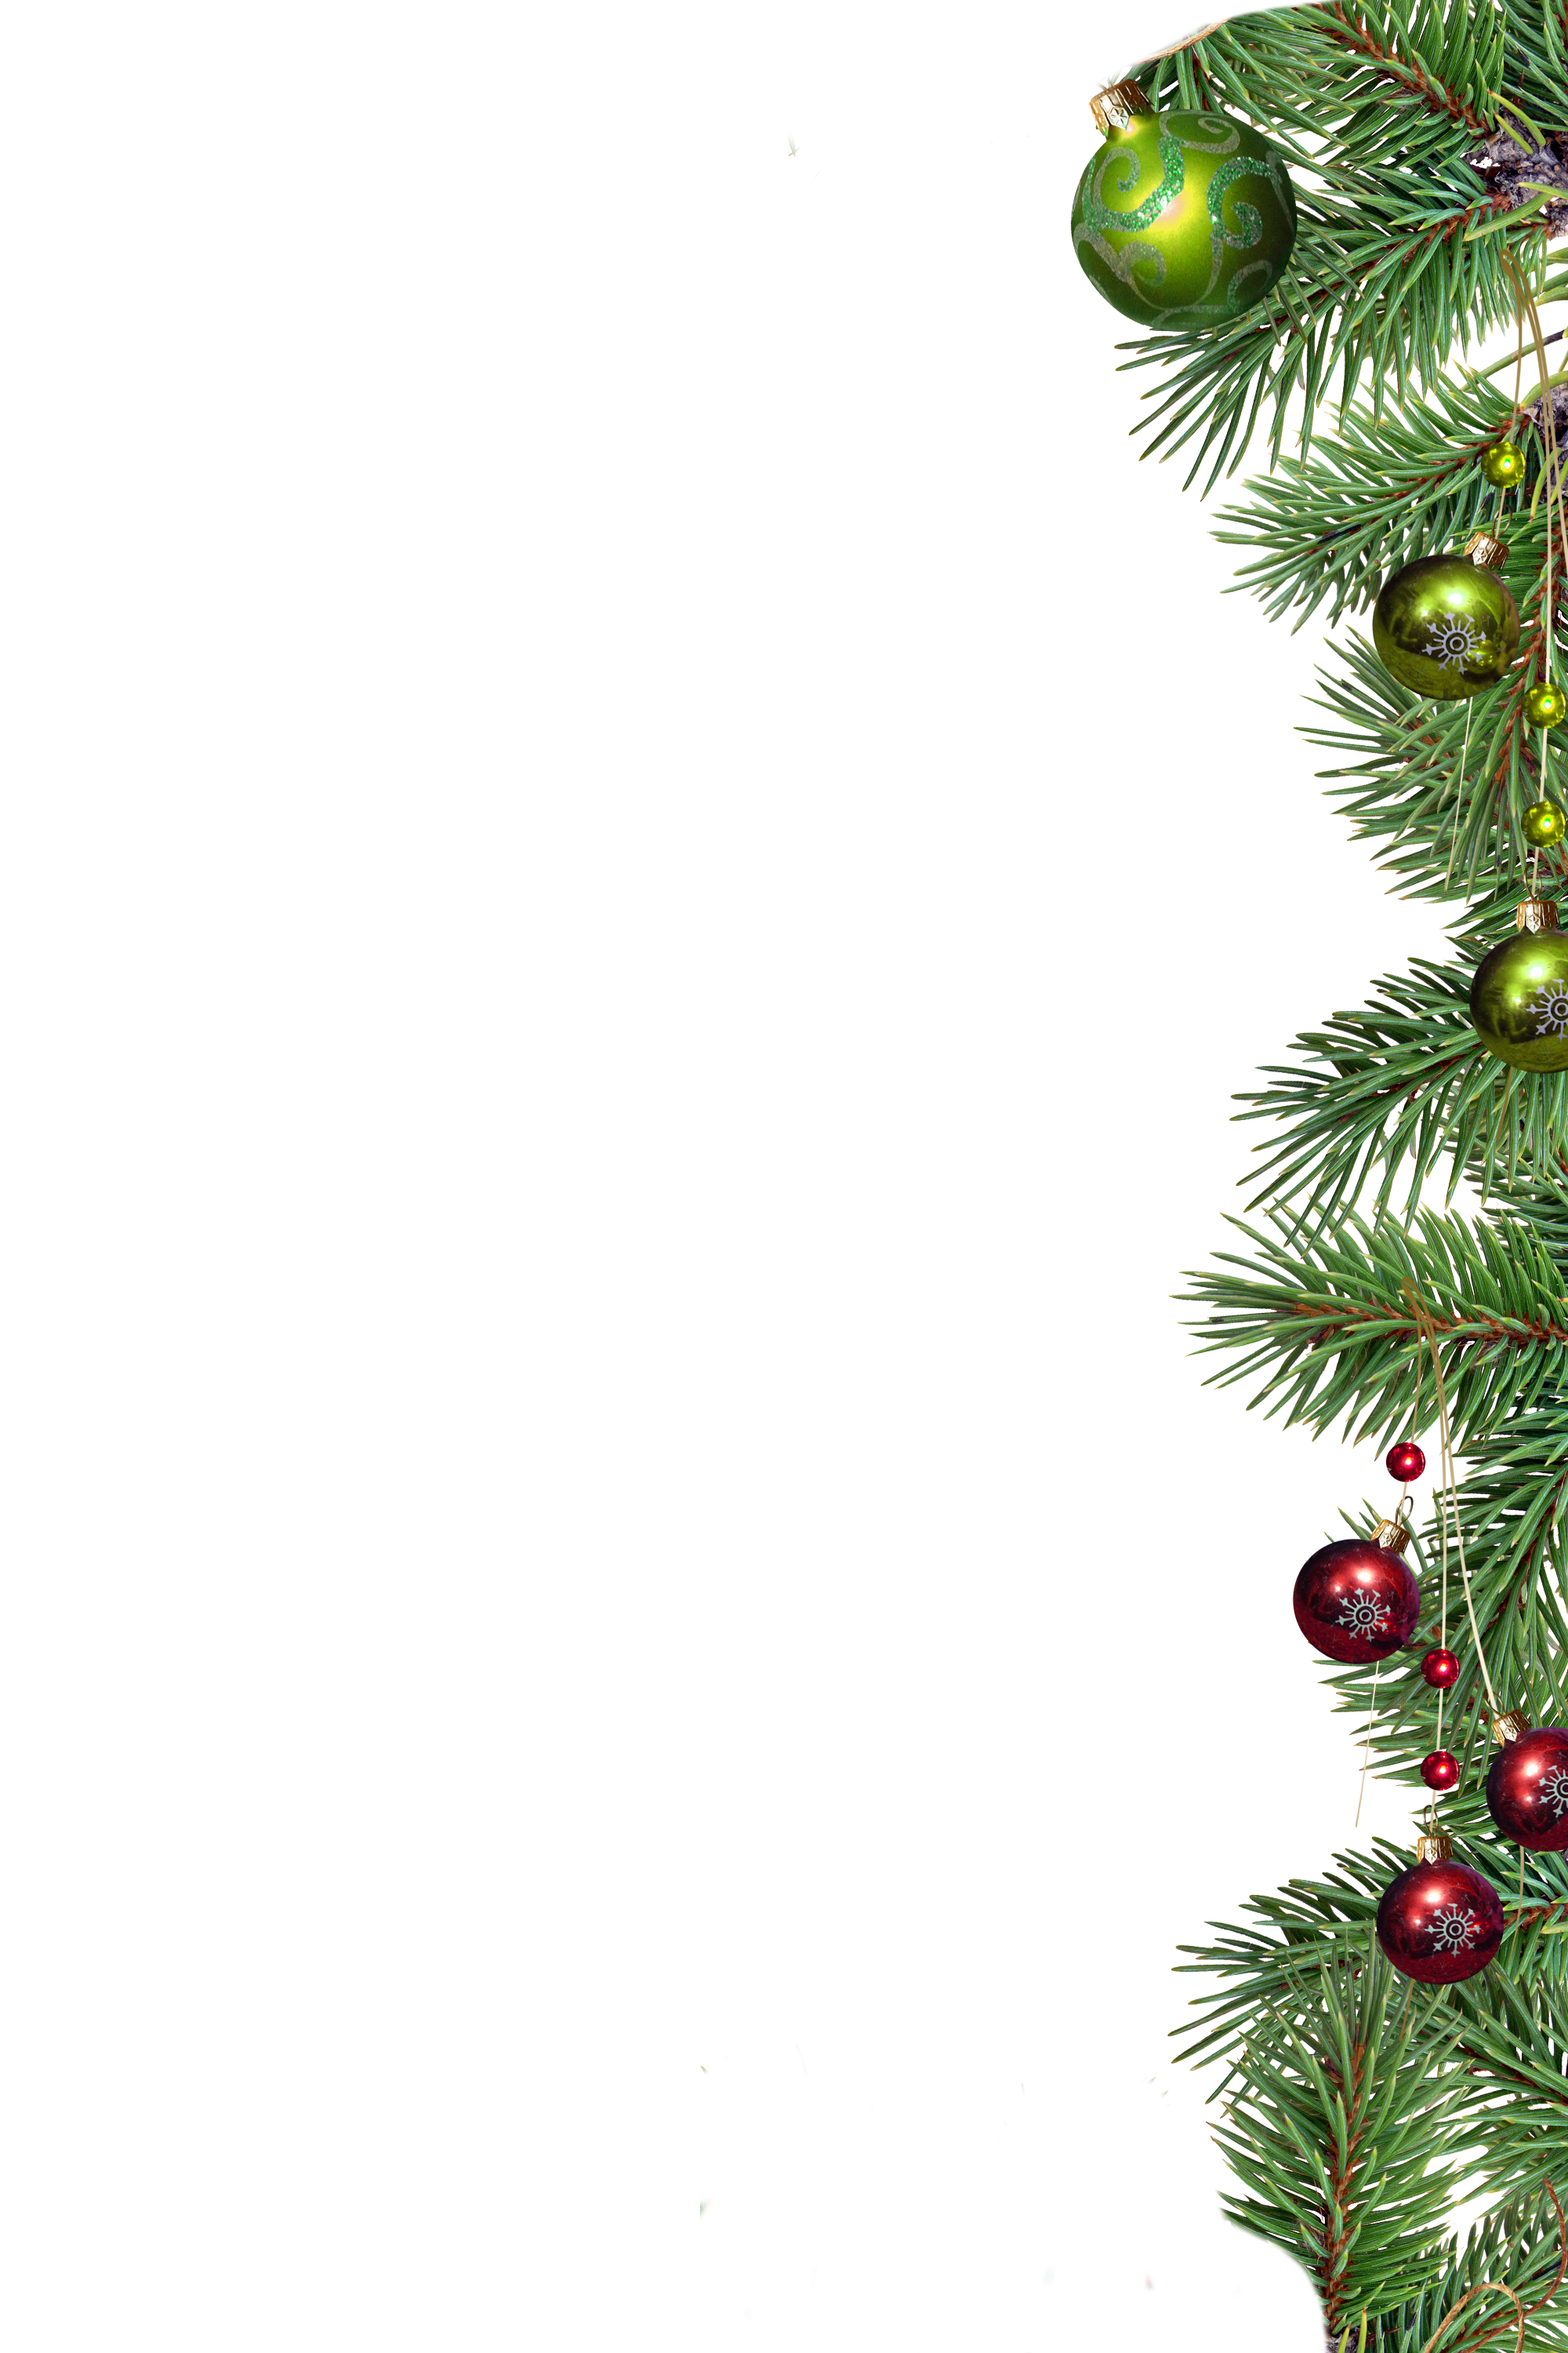
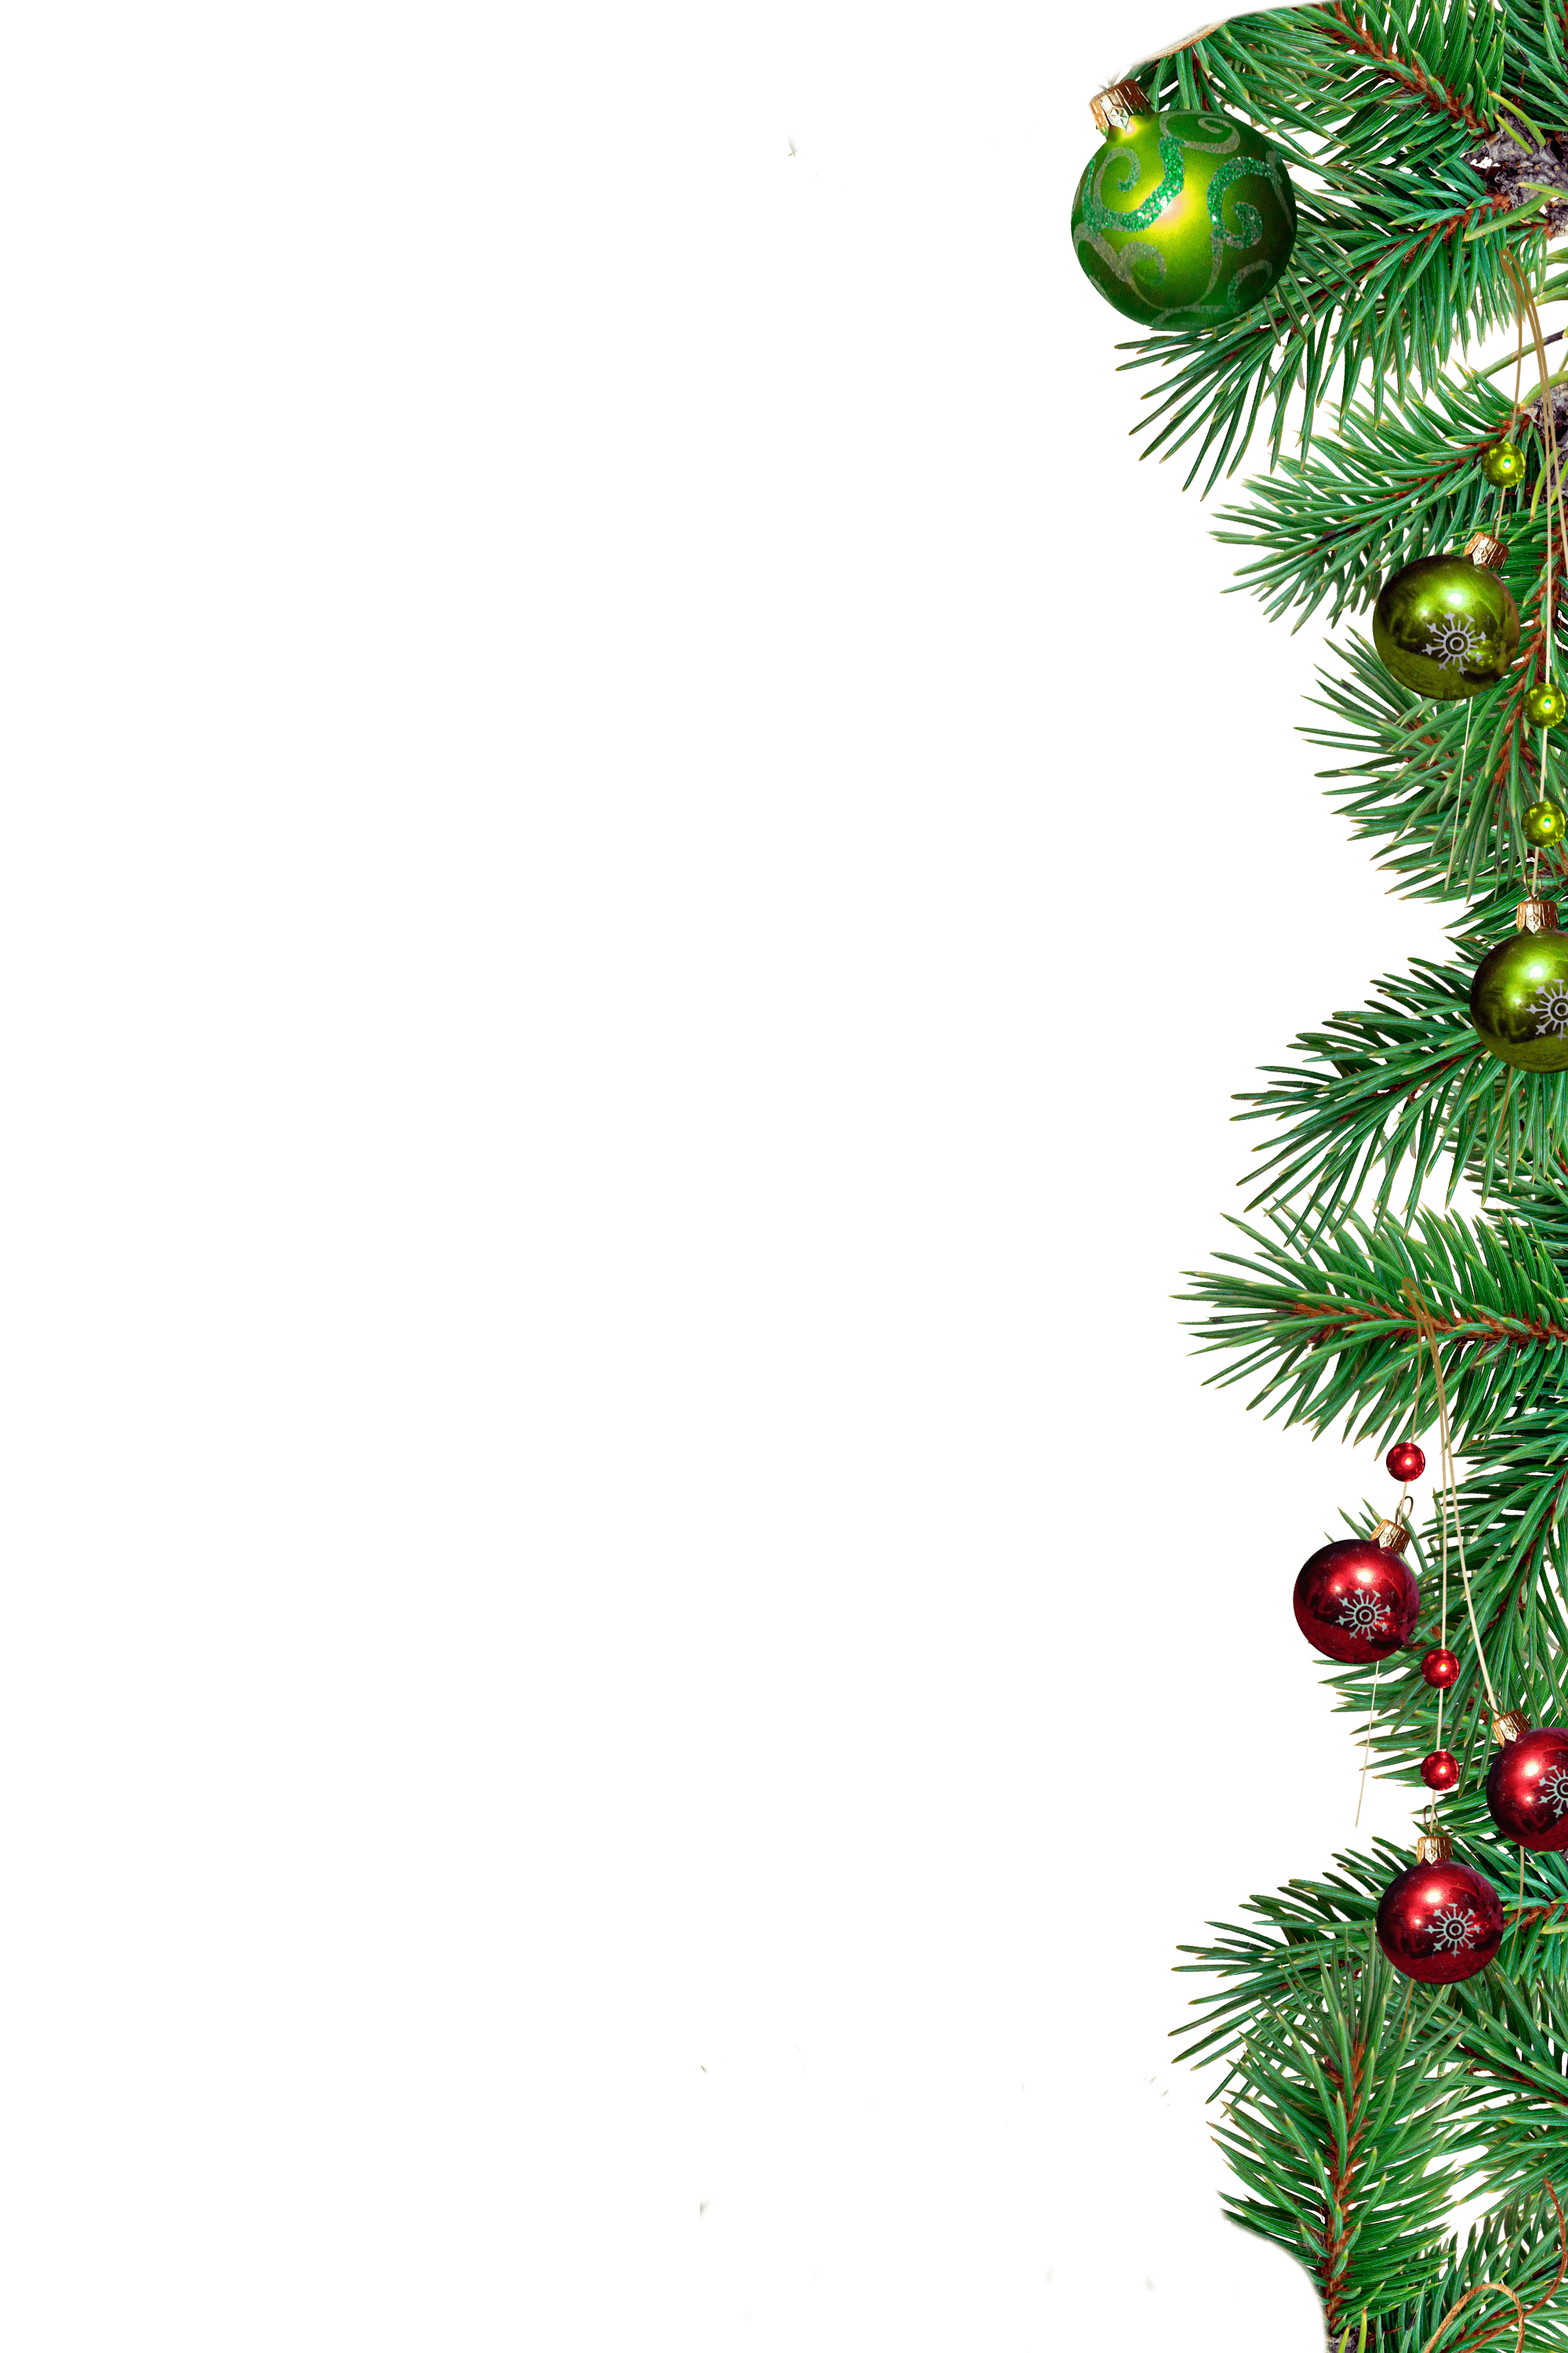
feat: reduced the size of images

Changed region(s): [[0.682, 0.0, 1.0, 1.0]]

diff --git a/christmas-task/src/app/app.css b/christmas-task/src/app/app.css
@@ -48,16 +48,6 @@
    url('../assets/png/snowflake1.png'),
    url('../assets/png/snowflake2.png'), 
    url('../assets/png/snowflake3.png'),
-    url('../assets/png/snowflake1.png'),
-    url('../assets/png/snowflake1.png'),
-   url('../assets/png/snowflake2.png'), 
-   url('../assets/png/snowflake3.png'),
-    url('../assets/png/snowflake1.png'),
-   url('../assets/png/snowflake2.png'), 
-   url('../assets/png/snowflake3.png'),
-   url('../assets/png/snowflake1.png'),
-   url('../assets/png/snowflake2.png'), 
-   url('../assets/png/snowflake3.png'),
     url('../assets/png/snowflake1.png');
 
  -webkit-animation: snow 2s linear infinite;

diff --git a/christmas-task/src/app/view/setting/toys/toys.css b/christmas-task/src/app/view/setting/toys/toys.css
@@ -15,10 +15,10 @@
 
 .popup {
   position: fixed;
-  width: 60%;
+  width: 30%;
   padding: 50px 0;
   top: 300px;
-  left: 20%;
+  left: 35%;
   text-align: center;
   color: rgba(99,0,11);
   background-color: #fff08e
